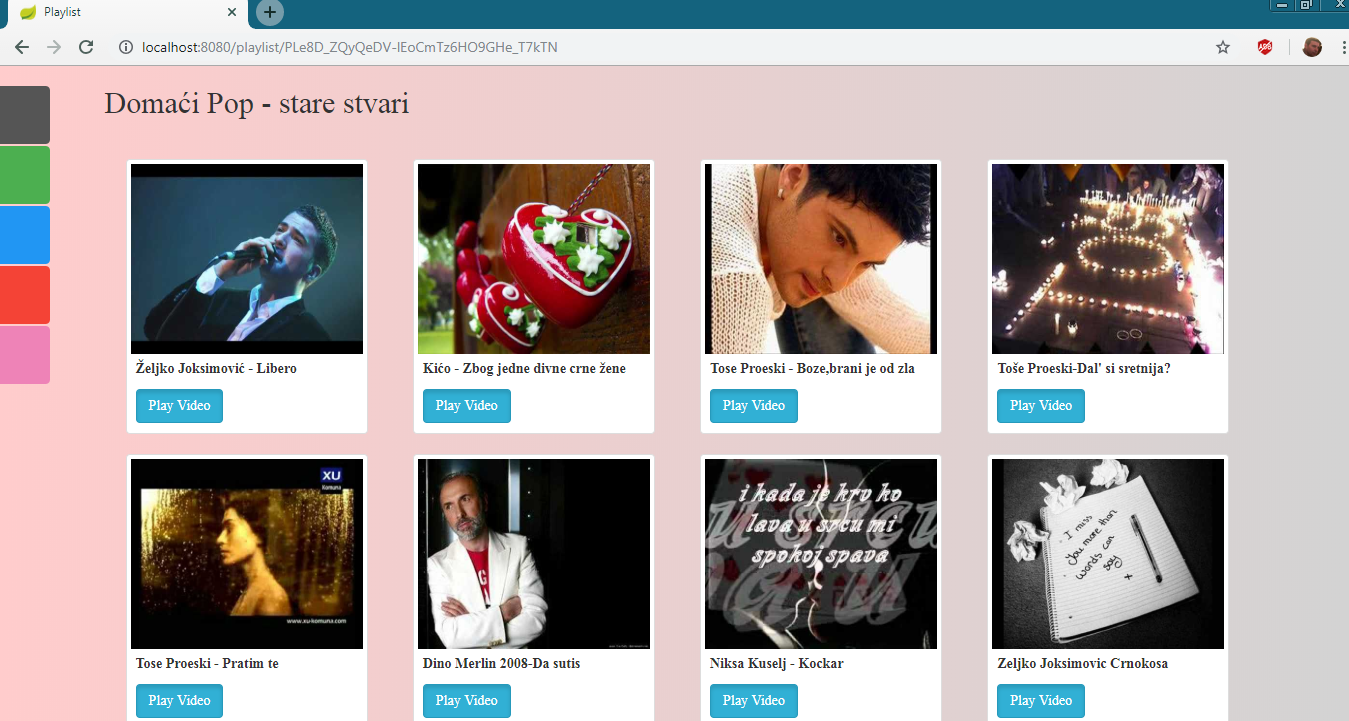
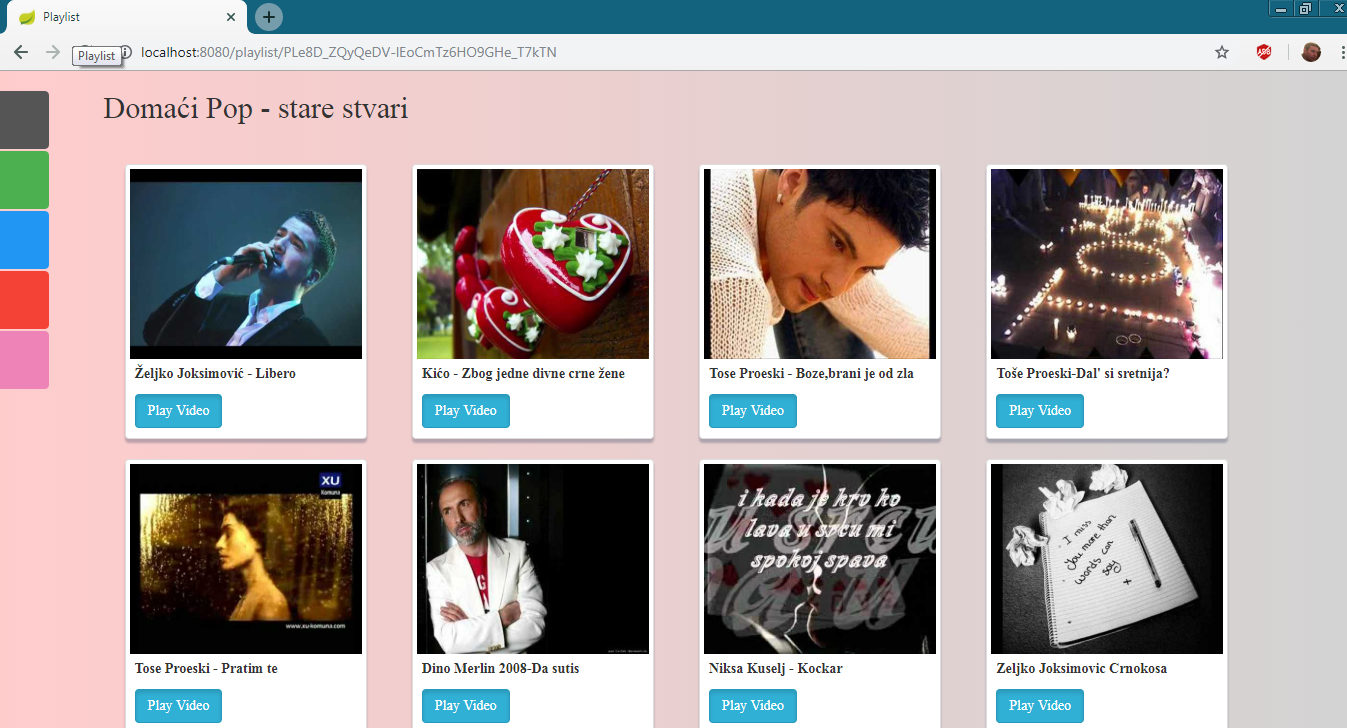
change cards

diff --git a/src/main/resources/templates/playlists.html b/src/main/resources/templates/playlists.html
@@ -26,13 +26,12 @@
     <div class="container">
         <h2 style="text-align: center; font-weight: bold; margin-top: 40px; margin-bottom: 50px; font-size: 25px; font-family: 'sans-serif'">YouTube Playlists </h2>
         <div class="row">
-
             <div class="col-md-12">
                 <div id="news-slider2" class="owl-carousel">
                     <div th:each="item : ${items}">
                         <div class="post-slide2">
                             <div class="post-img">
-                                <img th:src="${item.snippet.thumbnails.high.url}" style="width: 360px; height: 290px" alt="...">
+                                <img th:src="${item.snippet.thumbnails.high.url}" style="width: 360px; height: 290px" alt="image">
                             </div>
                             <div class="post-content">
                                 <!--<h3 class="post-title"><a href="#">Latest News Post</a></h3>-->

diff --git a/src/main/resources/templates/playlist.html b/src/main/resources/templates/playlist.html
@@ -13,6 +13,12 @@
 
     <link rel="stylesheet" th:href="@{/css/playlist.css}"/>
     <link rel="stylesheet" th:href="@{/css/leftnav.css}"/>
+
+    <style>
+        .thumbnail{
+            box-shadow: 0 4px 2px rgba(43,59,93,0.30);
+        }
+    </style>
 </head>
 <body>
 <div class="container">

diff --git a/src/main/resources/static/css/playlist.css b/src/main/resources/static/css/playlist.css
@@ -5,7 +5,7 @@ h3.h3{text-align:center;padding:0.4em 0em;font-size:1.5em;}
 }
 .post-slide2{
     margin: 0 15px;
-    box-shadow: 0 1px 2px rgba(43,59,93,0.30);
+    box-shadow: 0 5px 2px rgba(43,59,93,0.30);
     margin-bottom:3em;
 }
 .post-slide2 .post-img{
